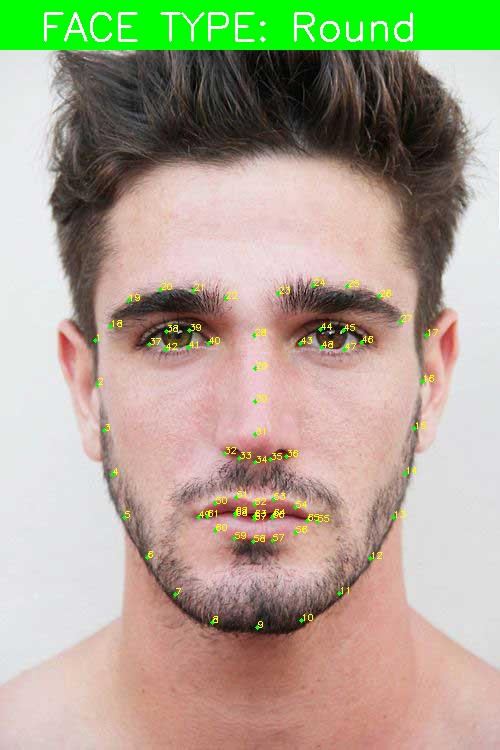
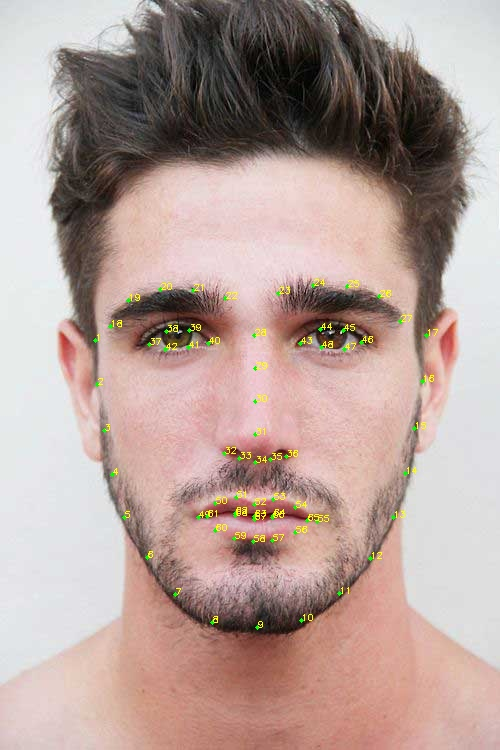
lon change image

Changed region(s): [[0.0, 0.0, 1.0, 0.092]]

diff --git a/face_shape/model/face_detector.py b/face_shape/model/face_detector.py
@@ -1,12 +1,11 @@
 import cv2  
-import dlib
-import imutils    
+import dlib  
 from imutils import face_utils
 import joblib
 
 face_detector = dlib.get_frontal_face_detector()
-landmark_detector = dlib.shape_predictor('face_shape/shape_predictor_68_face_landmarks.dat')
-clsfr=joblib.load('face_shape/model/KNN_Model.sav')
+landmark_detector = dlib.shape_predictor('C:/Users/user/LAIAIAI/face_shape/shape_predictor_68_face_landmarks.dat')
+clsfr=joblib.load('C:/Users/user/LAIAIAI/face_shape/model/KNN_Model.sav')
 
 def predict_face_type(points):
     label_dict={0:'diamond',1:'oblong',2:'oval',3:'round',4:'square',5:'triangle'}
@@ -35,8 +34,7 @@ def shapemain(imagepath):
     #img will be converted into a gray image
     rect=face_detector(gray)
     (height,width)=img.shape[0:2]
-    img[0:50,0:width]=[0,255,0]
-        
+
     try:
         points=landmark_detector(gray,rect[0])
         #getting the 68 points of the face
@@ -49,8 +47,11 @@ def shapemain(imagepath):
             cv2.putText(img,str(count),cen,cv2.FONT_HERSHEY_SIMPLEX,0.3,(0,255,255),1)
             count = count+1
             face = predict_face_type(points)
+        cv2.imwrite('output.jpg',img)
         return face
-        #cv2.imwrite('output.jpg',img)
+        
     except Exception as e:
         pass
+
+shapemain('./test1.jpg')
 
